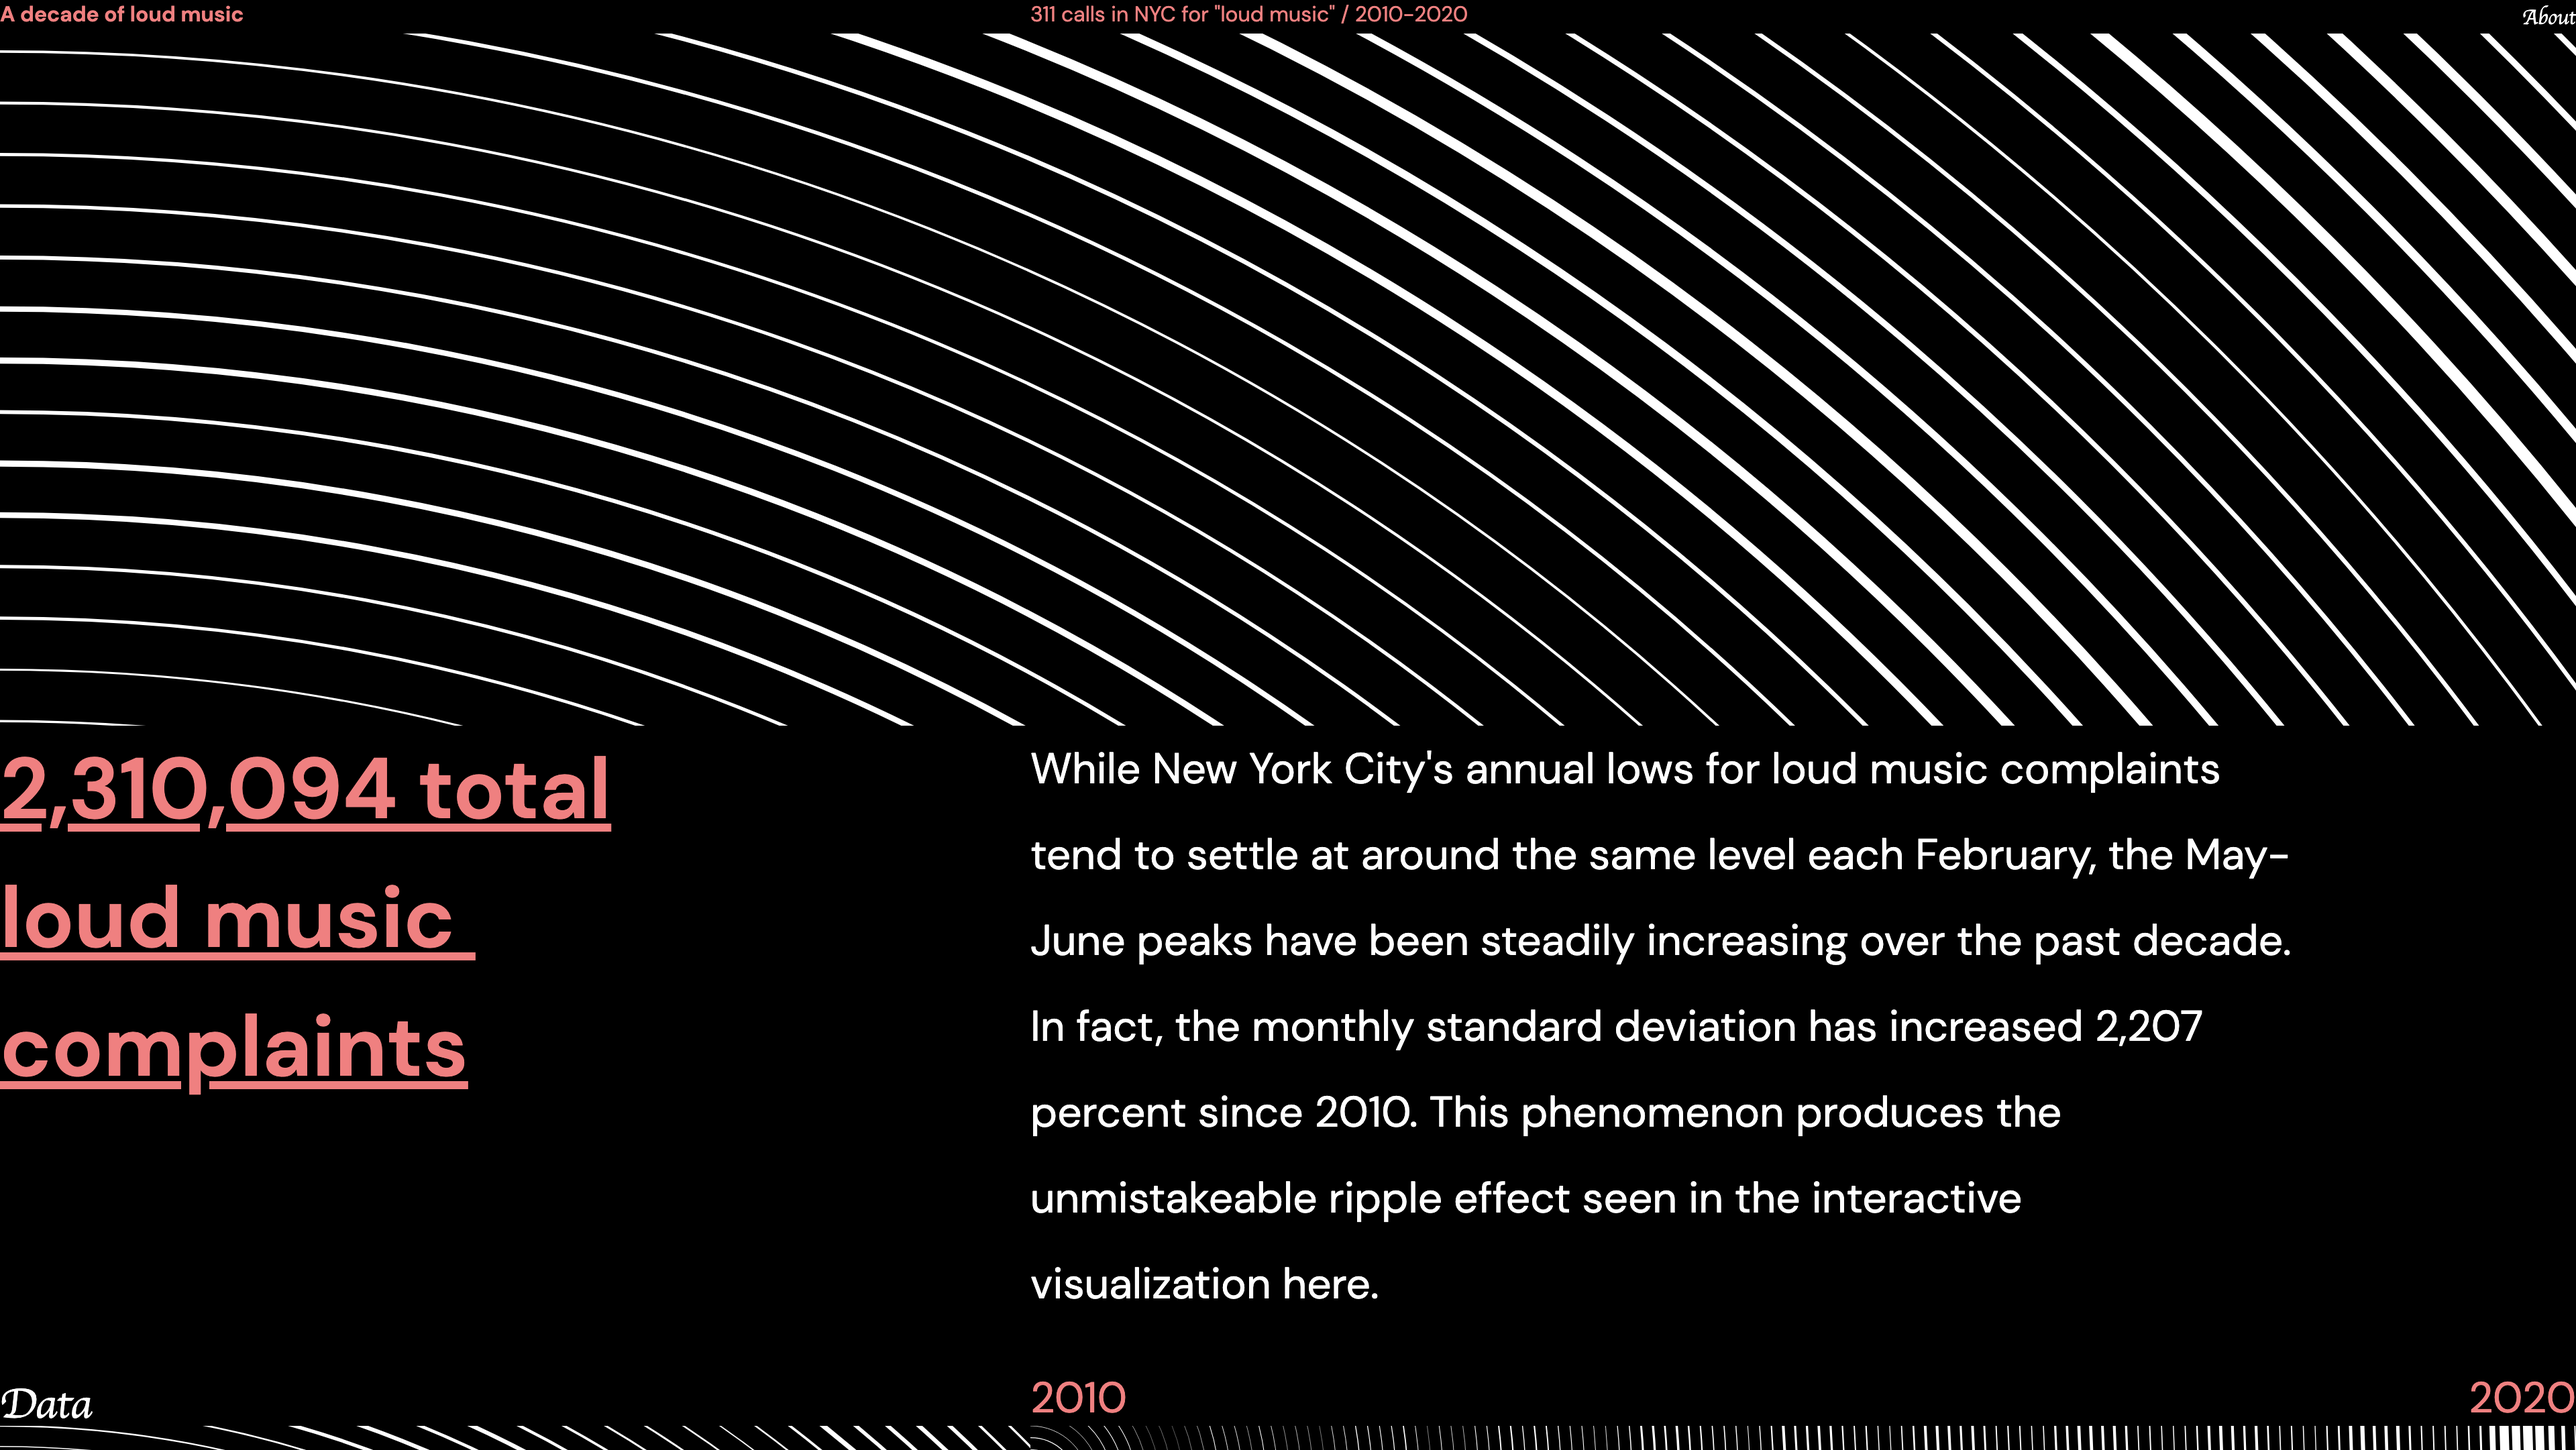
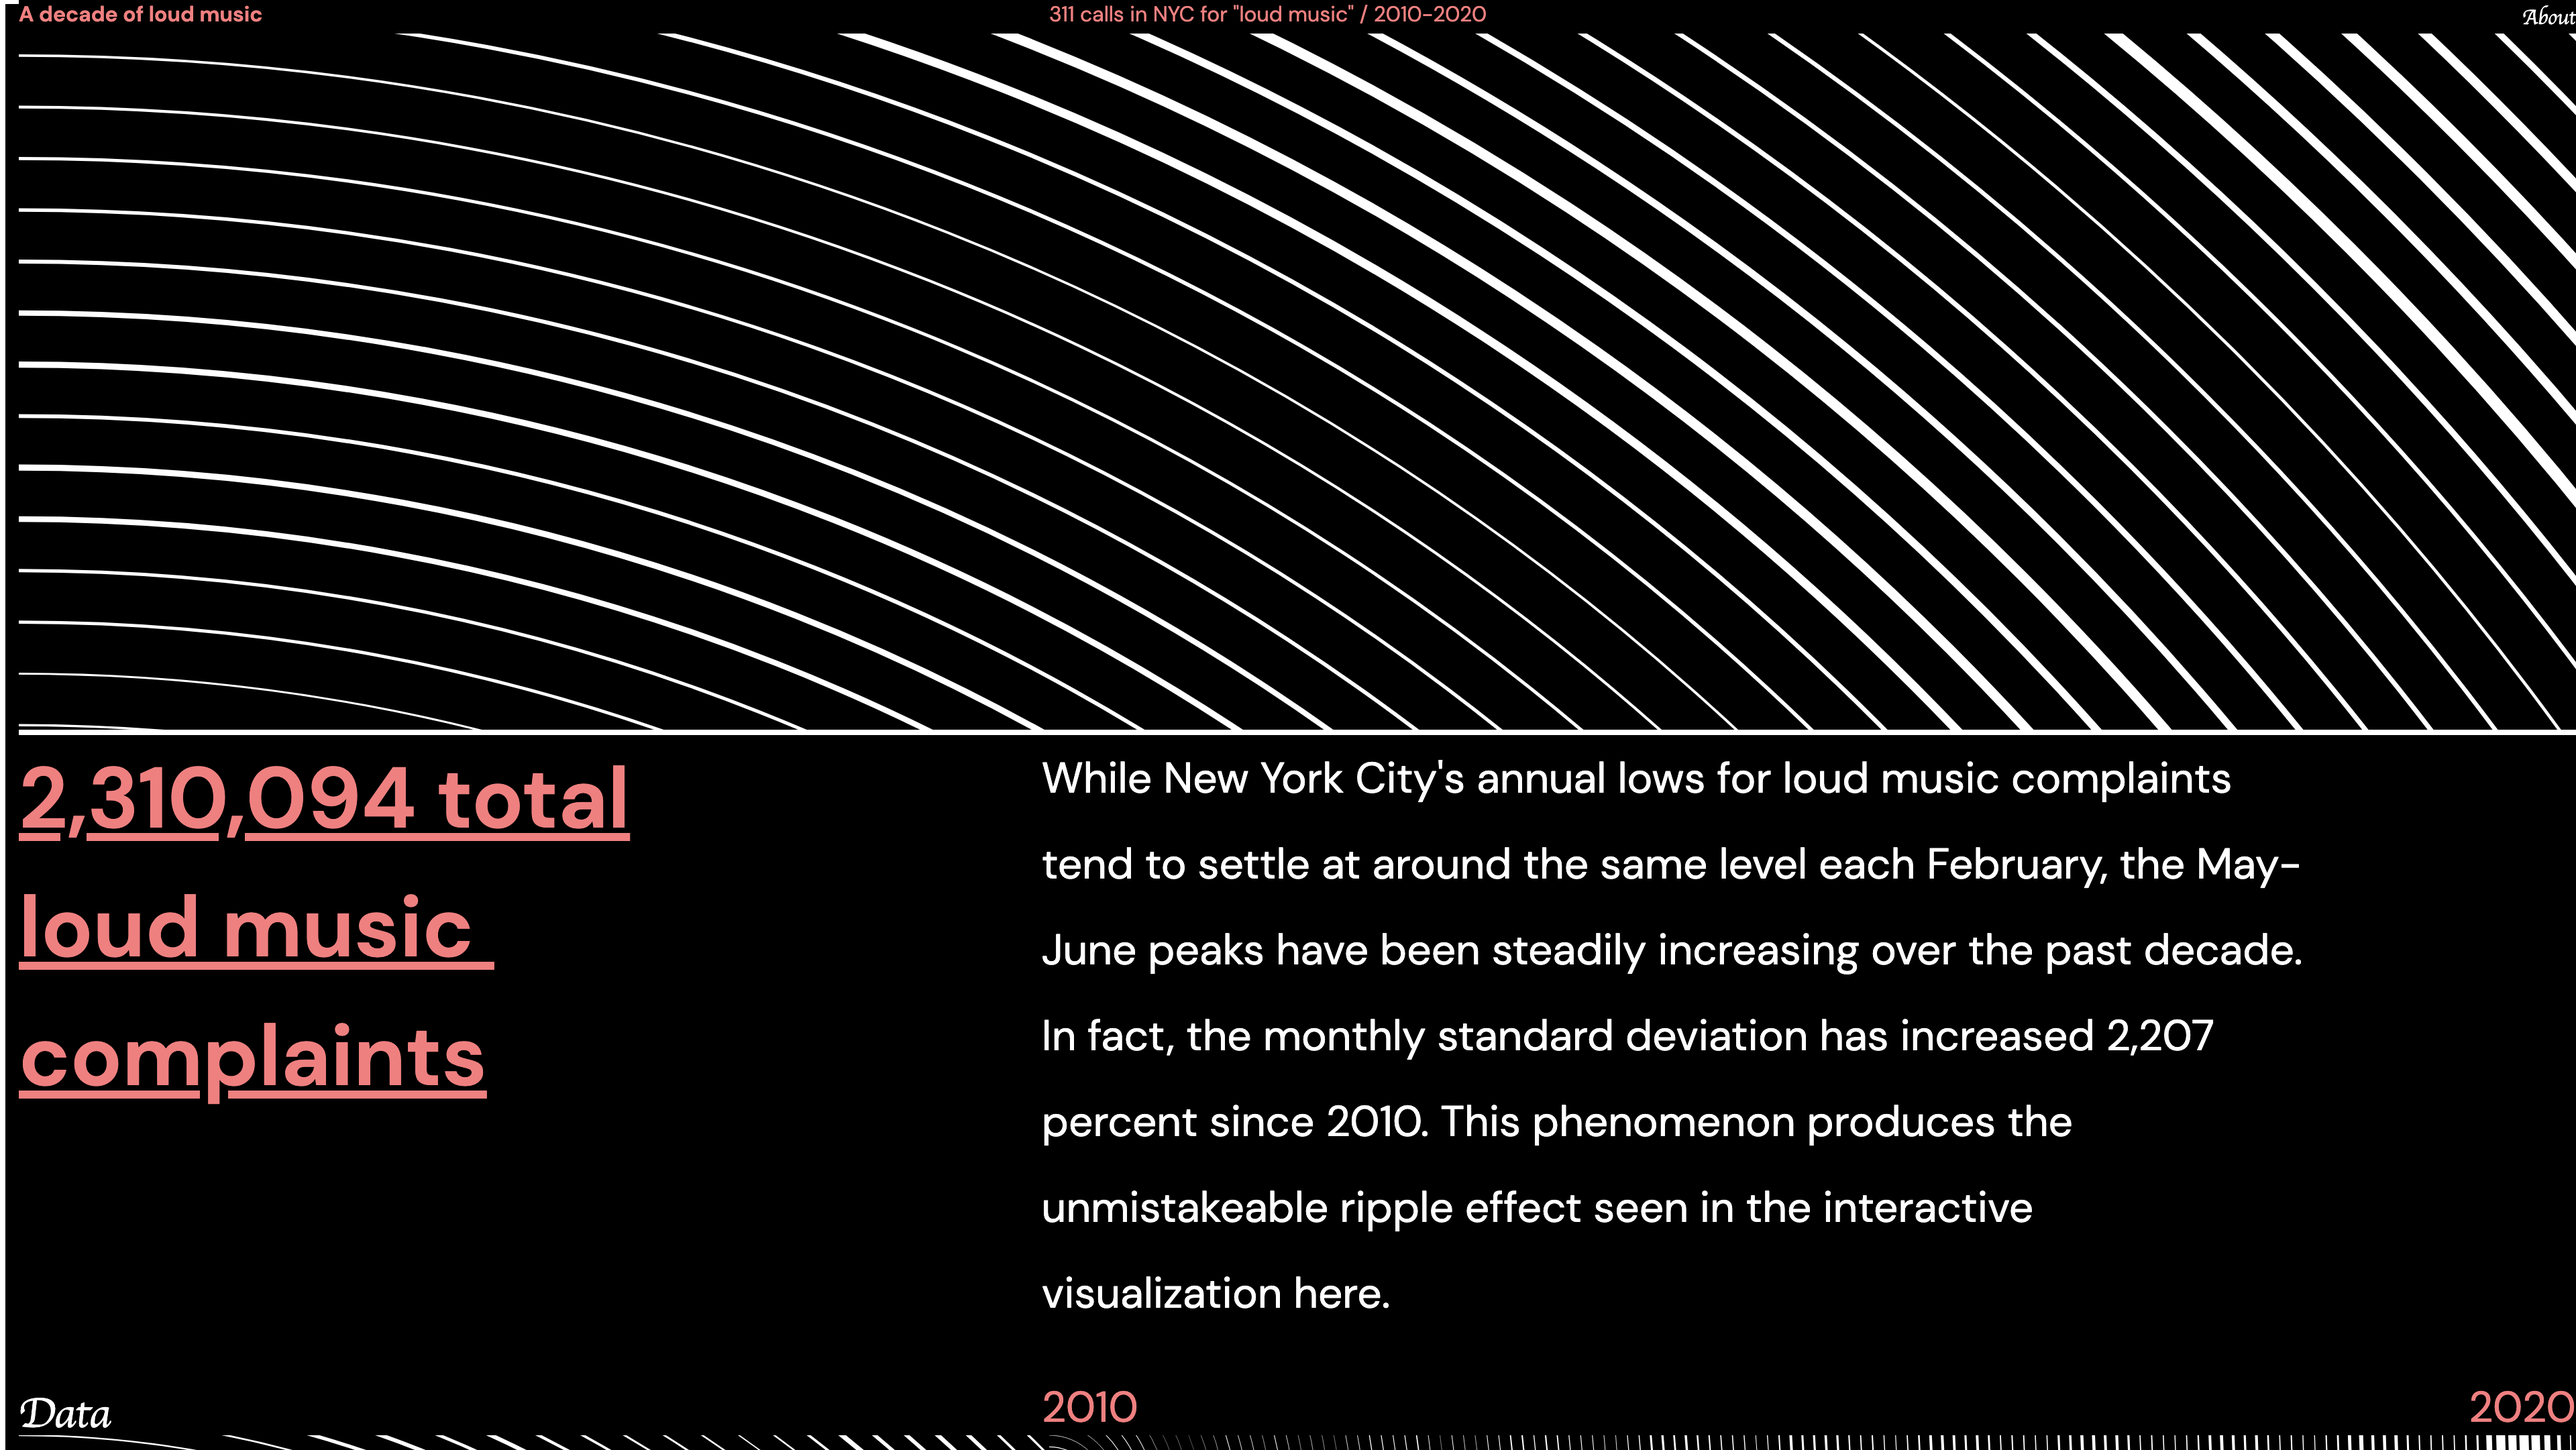
layout

diff --git a/styles/styles.css b/styles/styles.css
@@ -248,7 +248,7 @@ a:visited{
     color: lightcoral;
     margin:0px;
     padding-left: 0px;
-    padding-right: 0px;
+    padding-right: 14px;
     padding-top:0px;
     padding-bottom: 0px;
     text-decoration: none;
@@ -601,6 +601,19 @@ div.tooltip {
         margin:0px;
     }
     .source{
+        display: inline;
+        font-family: cursive;
+        
+        font-weight: 400;
+        font-size: 1em;
+        /* line-height: 2em; */
+        color: white;
+        margin: 0px;
+        height:20px;
+        text-decoration: none;
+        /* width:100%; */
+    }
+    .source:hover{
         display: inline;
         font-family: cursive;
         
